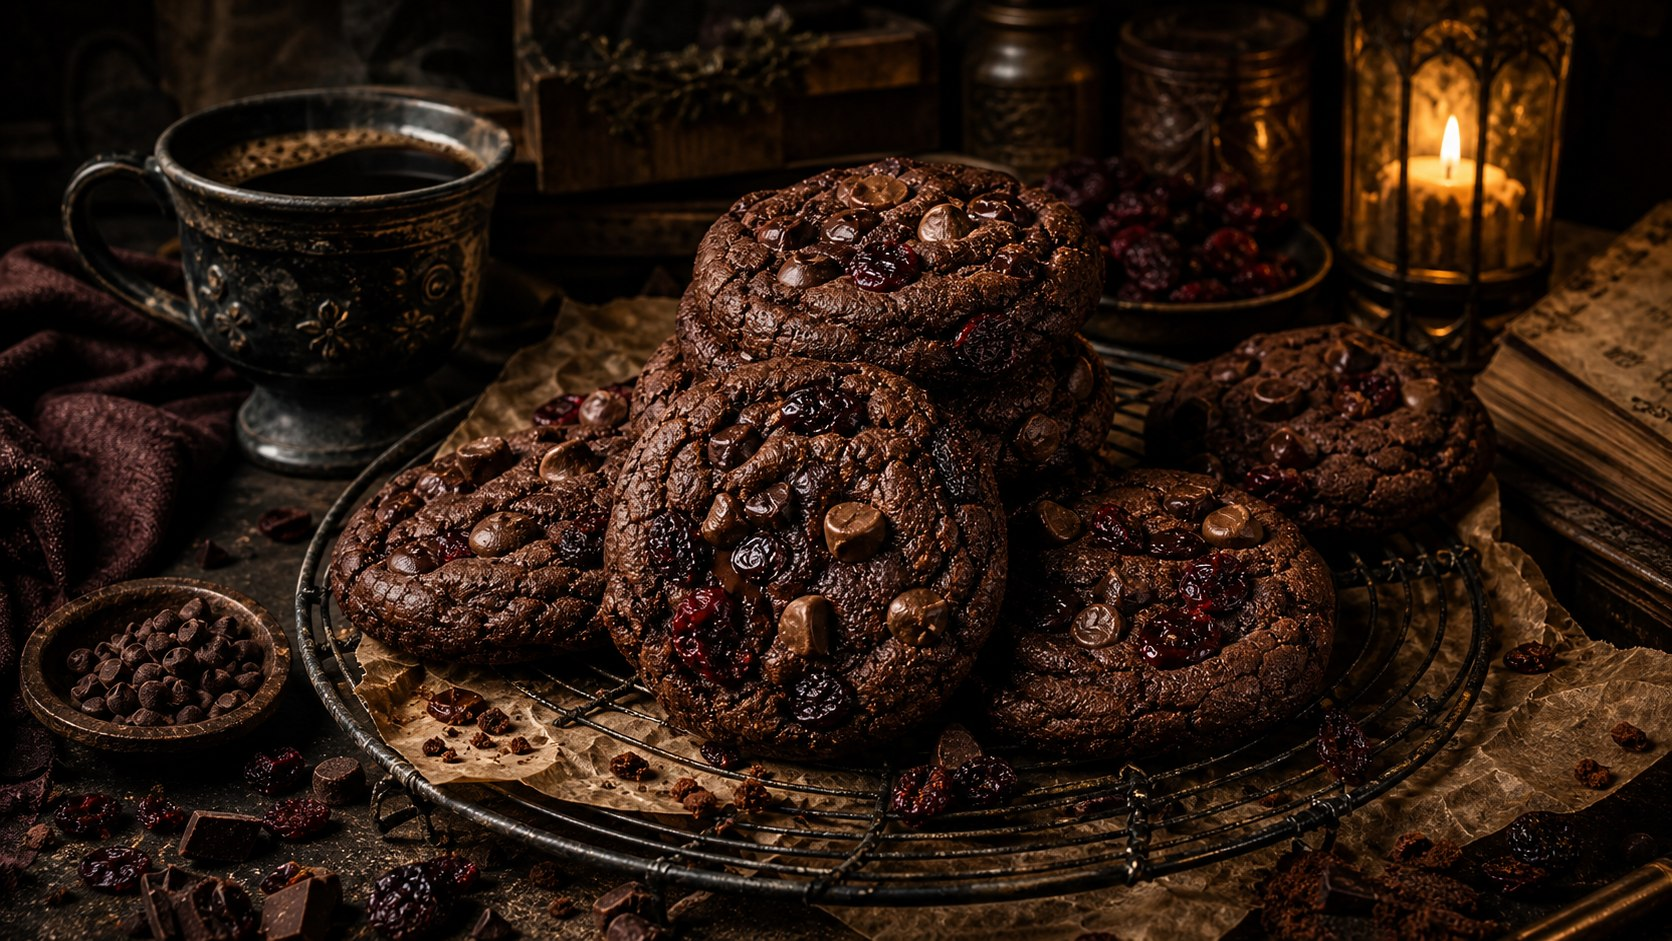
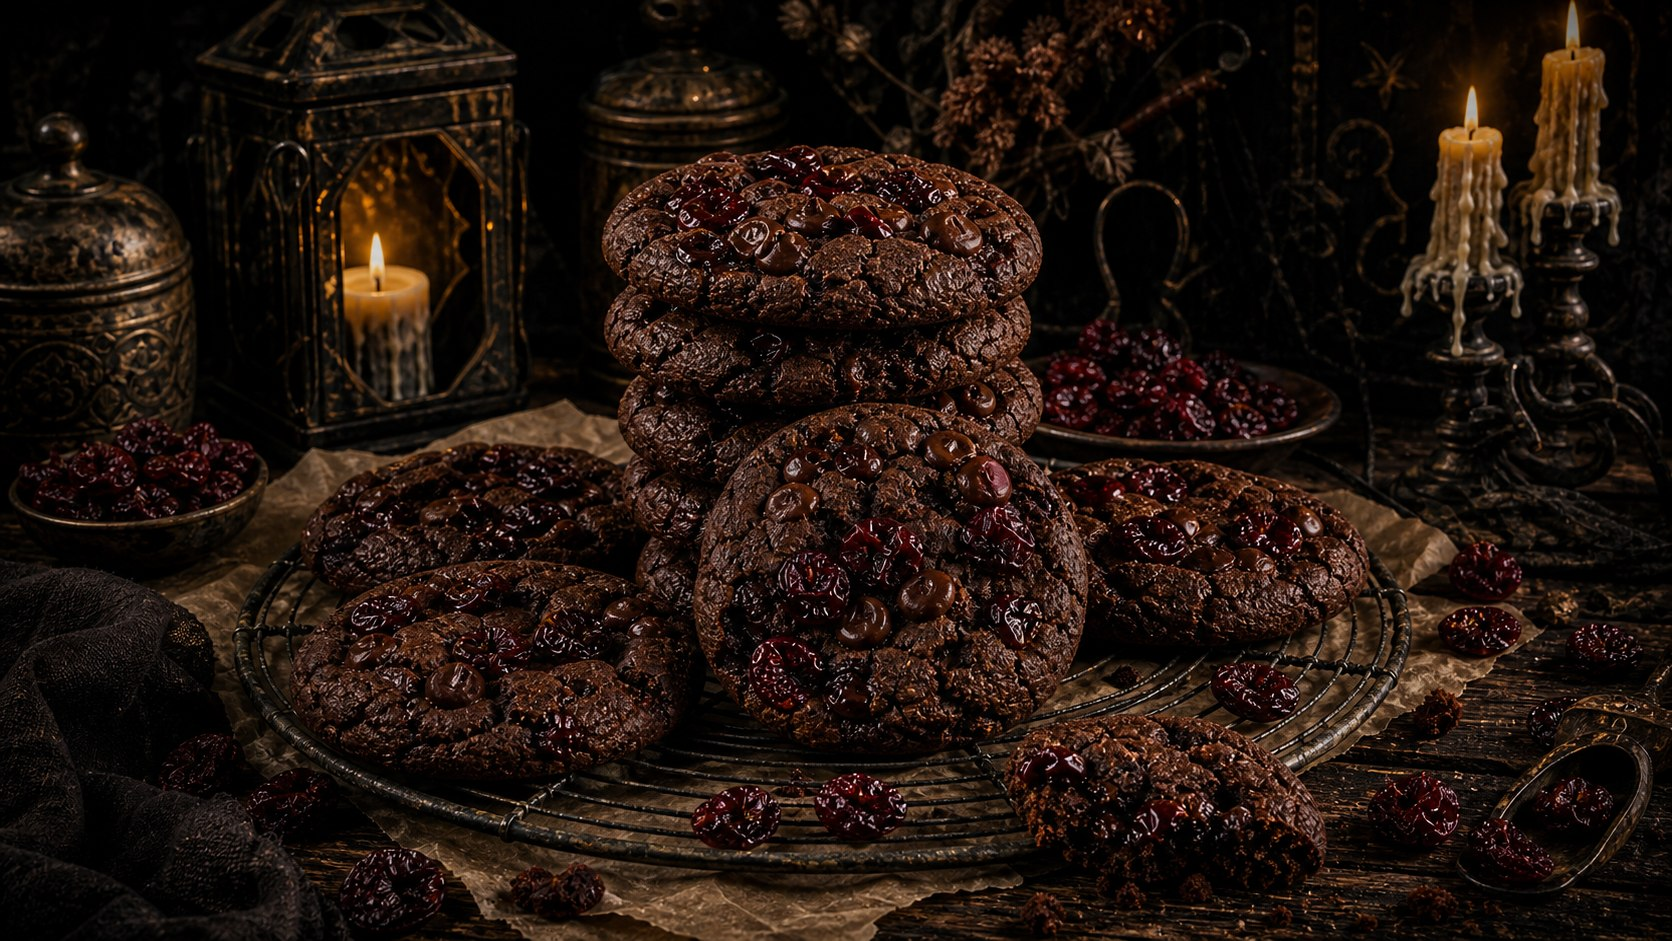
Add cherry clafoutis and dried cherries

diff --git a/recipes.js b/recipes.js
@@ -2414,6 +2414,10 @@ window.RECIPES = {
         "label": "Choux au craquelin"
       },
       {
+        "id": "clafoutis_cerises_bocuse",
+        "label": "Clafoutis aux cerises"
+      },
+      {
         "id": "craquelin_cacao",
         "label": "Craquelin cacao"
       },
@@ -4192,6 +4196,10 @@ window.RECIPES = {
       {
         "id": "bases_salees_maitre",
         "label": "Bases salées"
+      },
+      {
+        "id": "cerises_sechees_maison",
+        "label": "Cerises séchées maison"
       },
       {
         "id": "chantilly_maitre",
@@ -8182,6 +8190,172 @@ window.RECIPES = {
       "desserts_maitre",
       "biscuits_gouters_maitre"
     ]
+  },
+  "clafoutis_cerises_bocuse": {
+    "title": "Clafoutis aux cerises",
+    "master": "desserts_maitre",
+    "image": "/assets/recipe-images-optimized/clafoutis_cerises_bocuse_spooky.jpg",
+    "categories": [
+      "Desserts"
+    ],
+    "seasons": [
+      "Été"
+    ],
+    "difficulty": "easy",
+    "difficultyScore": 2,
+    "yield": "6 personnes",
+    "aliases": [
+      "clafoutis cerises paul bocuse",
+      "clafoutis aux cerises",
+      "clafoutis bocuse"
+    ],
+    "tags": [
+      "clafoutis",
+      "cerise",
+      "dessert"
+    ],
+    "ingredients": [
+      {
+        "group": "Appareil",
+        "items": [
+          "125g farine",
+          "100g sucre",
+          "3 œufs",
+          "300g lait entier",
+          "1 pincée sel fin",
+          "Vanille selon goût ou arôme vanille selon dosage indiqué sur la bouteille"
+        ]
+      },
+      {
+        "group": "Fruits et moule",
+        "items": [
+          "500g cerises",
+          "15g beurre doux pour le moule",
+          "15g sucre pour le moule"
+        ]
+      }
+    ],
+    "steps": [
+      "Préchauffer le four à 180°C et beurrer le moule.",
+      "Saupoudrer le moule avec un peu de sucre, puis répartir les cerises en une couche régulière.",
+      "Mélanger farine, sucre et sel dans un saladier.",
+      "Ajouter les œufs un à un, puis délayer progressivement avec le lait pour obtenir une pâte lisse.",
+      "Parfumer avec la vanille, puis verser l’appareil sur les cerises.",
+      "Cuire 35 à 40min, jusqu’à obtenir un clafoutis pris au centre et légèrement doré.",
+      "Laisser tiédir avant de servir."
+    ],
+    "notes": [
+      "Les cerises peuvent rester entières pour un jus plus contenu, ou être dénoyautées pour une dégustation plus confortable.",
+      "Servir tiède ou à température ambiante.",
+      "Une fine pluie de sucre juste avant service donne un fini plus pâtissier."
+    ],
+    "technical": [
+      {
+        "label": "Texture",
+        "value": "L’appareil doit être lisse et fluide, sans excès de fouet pour garder un résultat tendre."
+      },
+      {
+        "label": "Cuisson",
+        "value": "Le centre doit être pris mais encore souple : il finit de se stabiliser en tiédissant."
+      }
+    ],
+    "practical": {
+      "equipment": [
+        "Moule à gratin",
+        "Saladier",
+        "Fouet"
+      ],
+      "storage": [
+        "2 jours au réfrigérateur, couvert.",
+        "Revenir à température ambiante ou réchauffer doucement."
+      ],
+      "mistakes": [
+        "Ne verse pas tout le lait d’un coup : l’ajout progressif évite les grumeaux."
+      ],
+      "result": [
+        "Clafoutis moelleux, fruité, avec une pâte fine autour des cerises."
+      ]
+    }
+  },
+  "cerises_sechees_maison": {
+    "title": "Cerises séchées maison",
+    "master": "elements_base_maitre",
+    "image": "/assets/recipe-images-optimized/cerises_sechees_maison_spooky.jpg",
+    "categories": [
+      "Base"
+    ],
+    "seasons": [
+      "Été"
+    ],
+    "difficulty": "easy",
+    "difficultyScore": 2,
+    "yield": "1 bocal",
+    "aliases": [
+      "cerises sechées maison",
+      "cerises séchées",
+      "faire sécher des cerises"
+    ],
+    "tags": [
+      "cerise",
+      "séchage",
+      "conservation"
+    ],
+    "ingredients": [
+      {
+        "group": "Fruit",
+        "items": [
+          "1kg cerises mûres"
+        ]
+      },
+      {
+        "group": "Optionnel",
+        "items": [
+          "10g jus de citron"
+        ]
+      }
+    ],
+    "steps": [
+      "Laver les cerises, retirer les queues et bien les sécher.",
+      "Dénoyauter les cerises, puis les couper en deux si elles sont grosses.",
+      "Mélanger avec le jus de citron si souhaité pour limiter l’oxydation.",
+      "Répartir les cerises côté coupé vers le haut sur des grilles, sans les superposer.",
+      "Sécher au déshydrateur à 55-60°C pendant 10 à 14h, ou au four ventilé très doux avec la porte entrouverte.",
+      "Retourner à mi-séchage et prolonger jusqu’à obtenir une texture souple, ridée et non collante.",
+      "Laisser refroidir complètement, puis stocker en bocal hermétique."
+    ],
+    "notes": [
+      "Le temps dépend de la taille des cerises, de leur teneur en jus et du matériel utilisé.",
+      "Pour une conservation plus sûre, les fruits doivent être souples mais ne plus relâcher de jus quand on les presse.",
+      "Utilise ces cerises dans les cookies, granolas, cakes ou salades composées."
+    ],
+    "technical": [
+      {
+        "label": "Séchage",
+        "value": "Mieux vaut une température douce et longue qu’une chaleur forte qui cuit le fruit."
+      },
+      {
+        "label": "Contrôle",
+        "value": "Si de la condensation apparaît dans le bocal après repos, remets les cerises à sécher."
+      }
+    ],
+    "practical": {
+      "equipment": [
+        "Dénoyauteur",
+        "Déshydrateur ou four ventilé",
+        "Grilles",
+        "Bocal hermétique"
+      ],
+      "storage": [
+        "1 mois dans un bocal hermétique au frais.",
+        "Plus longtemps au congélateur en sachet bien fermé."
+      ],
+      "mistakes": [
+        "Garde les cerises espacées pendant le séchage : l’air doit circuler autour de chaque morceau."
+      ],
+      "result": [
+        "Cerises concentrées, acidulées et moelleuses, prêtes à remplacer des raisins secs."
+      ]
+    }
   },
   "tempura_beignets_calamar_crevettes": {
     "title": "Tempura pour beignets de calamar ou crevettes",

diff --git a/app.js b/app.js
@@ -35,7 +35,9 @@ const MONTHLY_ADDITIONS = [
   { id: 'mini_flans_sales_garnitures', addedAt: '2026-05-20' },
   { id: 'pain_grille_beurre_ail_herbes', addedAt: '2026-05-20' },
   { id: 'billes_mozzarella_marinees', addedAt: '2026-05-20' },
-  { id: 'cookies_cerise_chocolat', addedAt: '2026-05-20' }
+  { id: 'cookies_cerise_chocolat', addedAt: '2026-05-20' },
+  { id: 'clafoutis_cerises_bocuse', addedAt: '2026-05-20' },
+  { id: 'cerises_sechees_maison', addedAt: '2026-05-20' }
 ];
 const CATEGORY_PARENT_IDS = {
   'Apéro': 'apero_maitre',